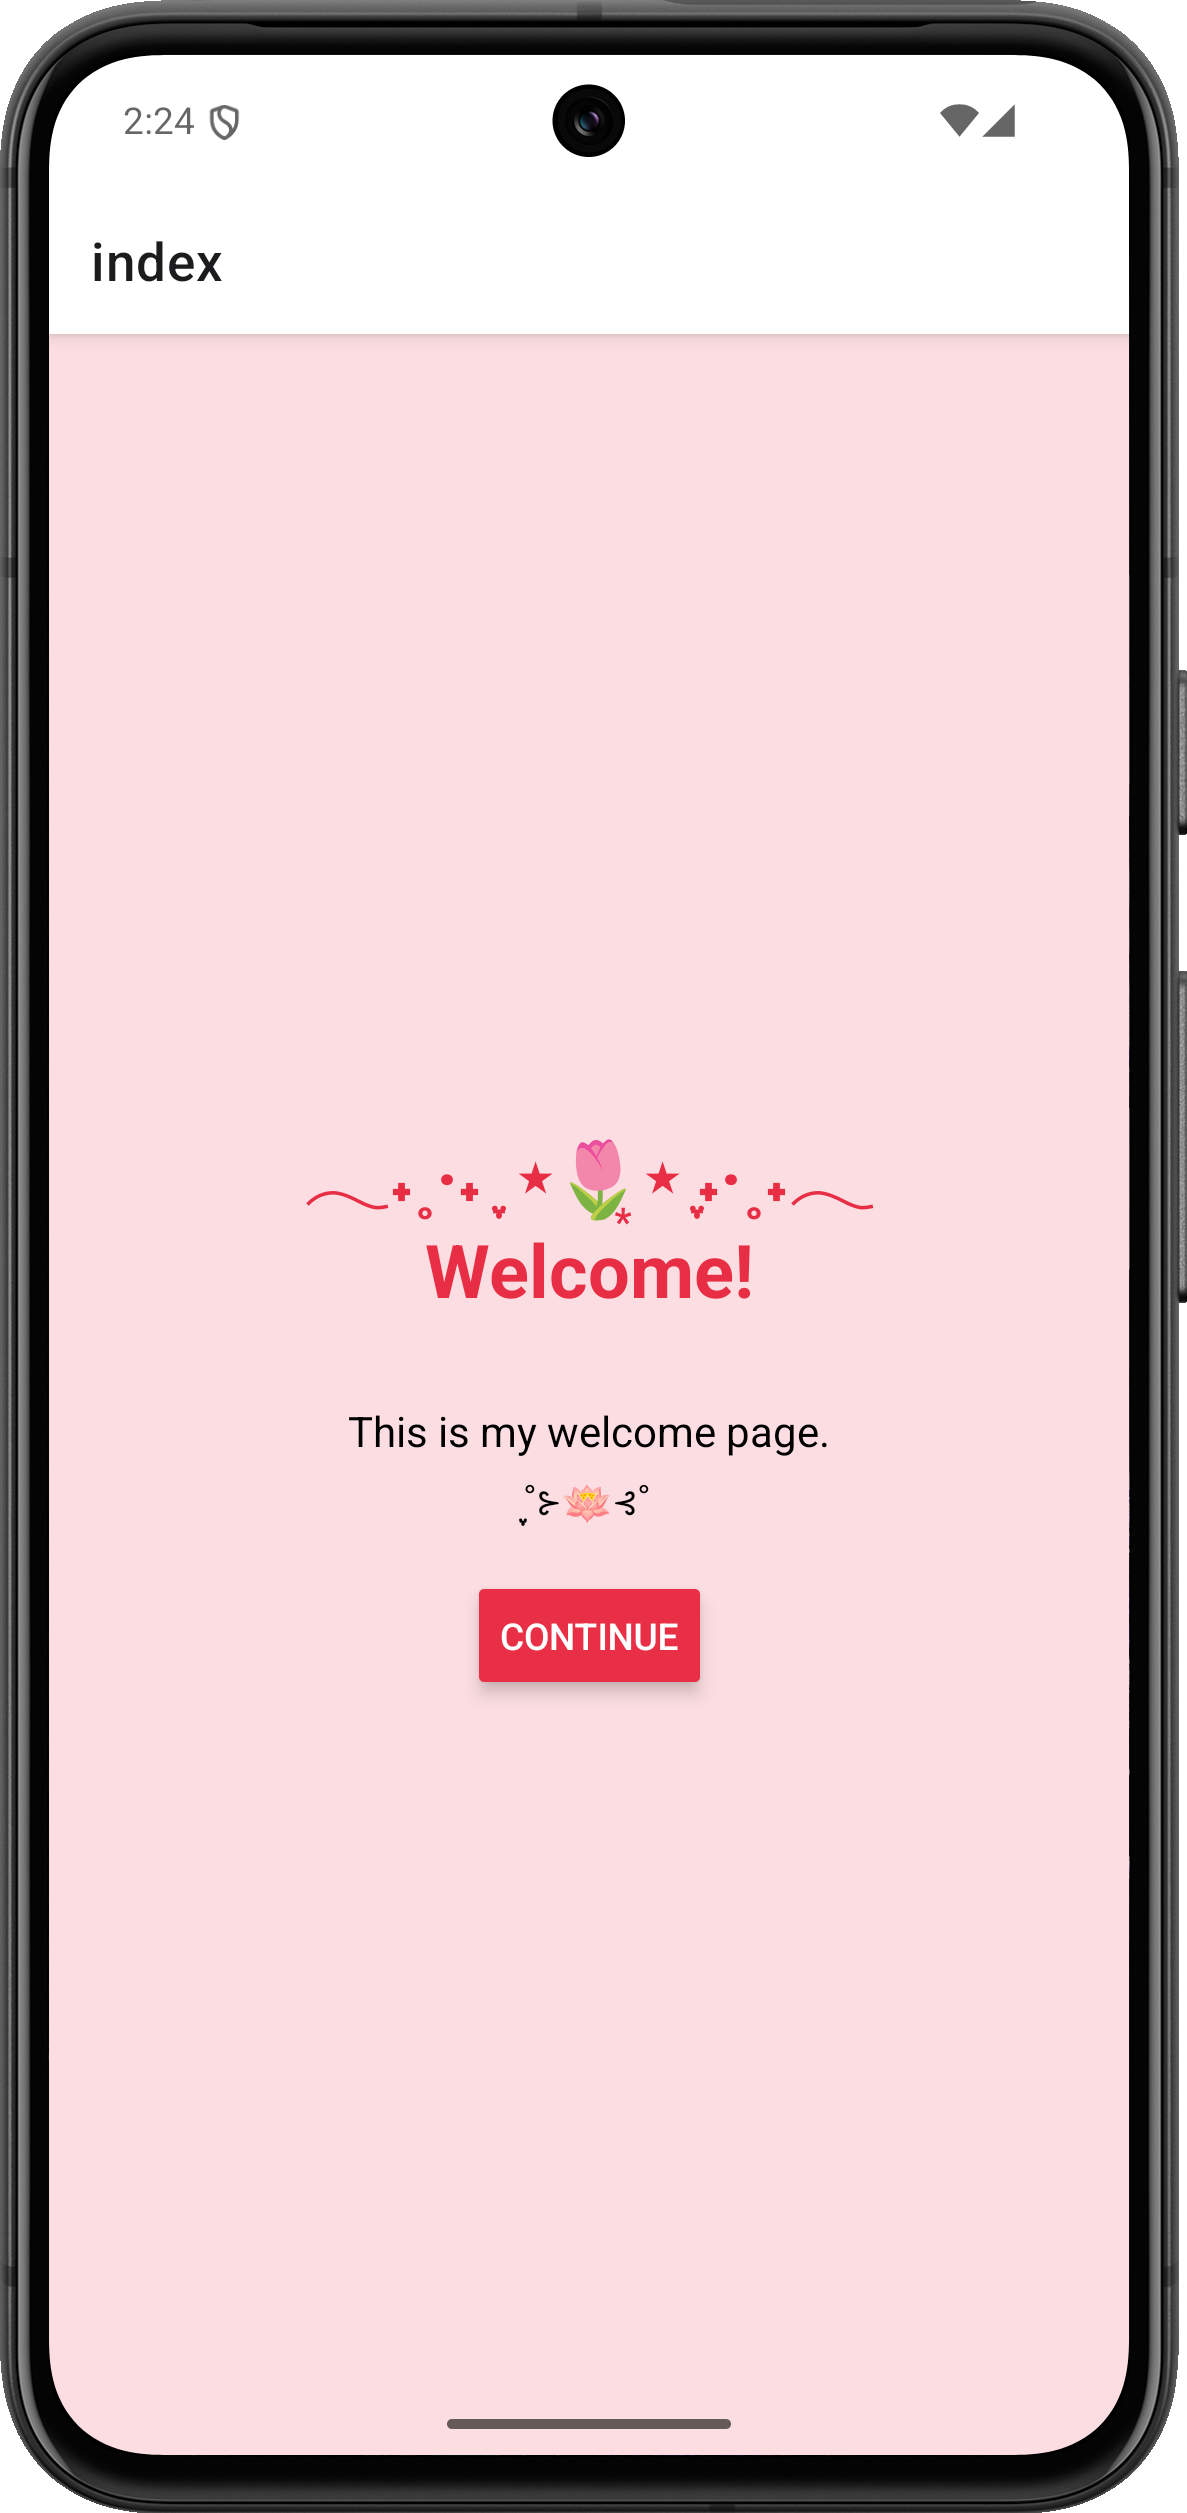
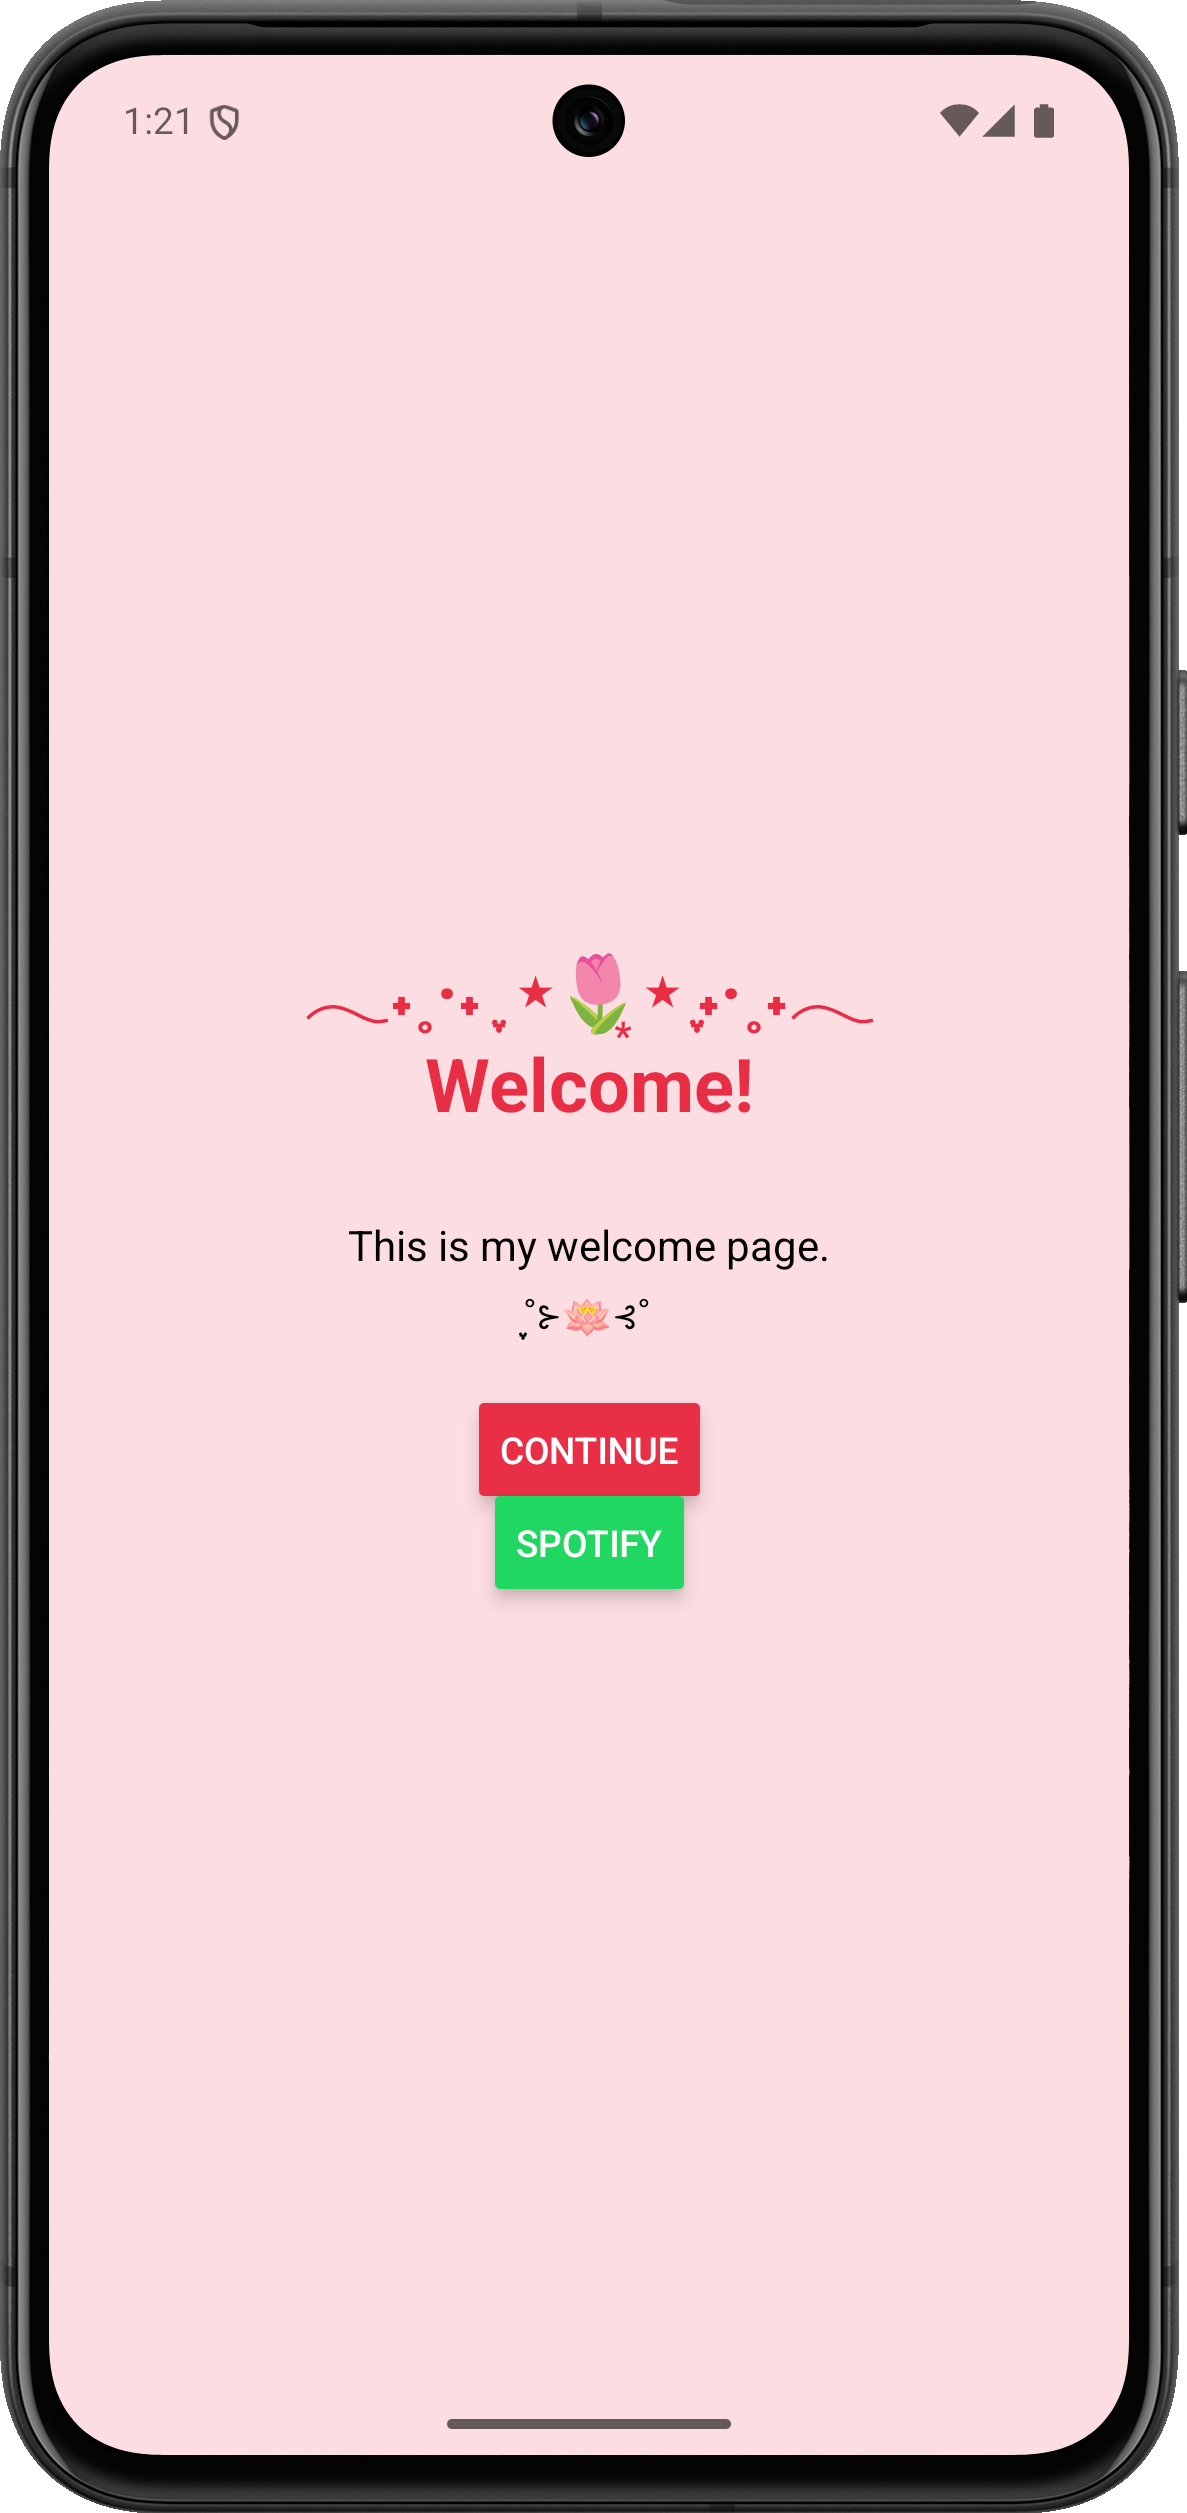
added spotify tablet screenshots

Changed region(s): [[0.0312, 0.0, 0.9663, 0.1552], [0.2805, 0.3725, 0.6858, 0.5277], [0.3117, 0.5587, 0.6858, 0.6828]]

diff --git a/README.md b/README.md
@@ -256,3 +256,16 @@ This project is licensed under the MIT License - see the [LICENSE](LICENSE) file
 
 **Spotify Drawer**  
 <img src="assets/images/drawer.png" alt="Drawer View" width="300" />
+
+**Spotify Tablet Playlists**  
+<img src="assets/images/TabletPlaylists.png" alt="Playlist View" width="500" />
+
+**Spotify Tablet Profile**  
+<img src="assets/images/TabletProfile.png" alt="Profile Screen" width="500" />
+
+**Spotify Tablet Settings**  
+<img src="assets/images/TabletSettings.png" alt="Settings Screen" width="500" />
+
+**Spotify Tablet Drawer**  
+<img src="assets/images/TabletDrawer.png" alt="Drawer View" width="500" />
+
